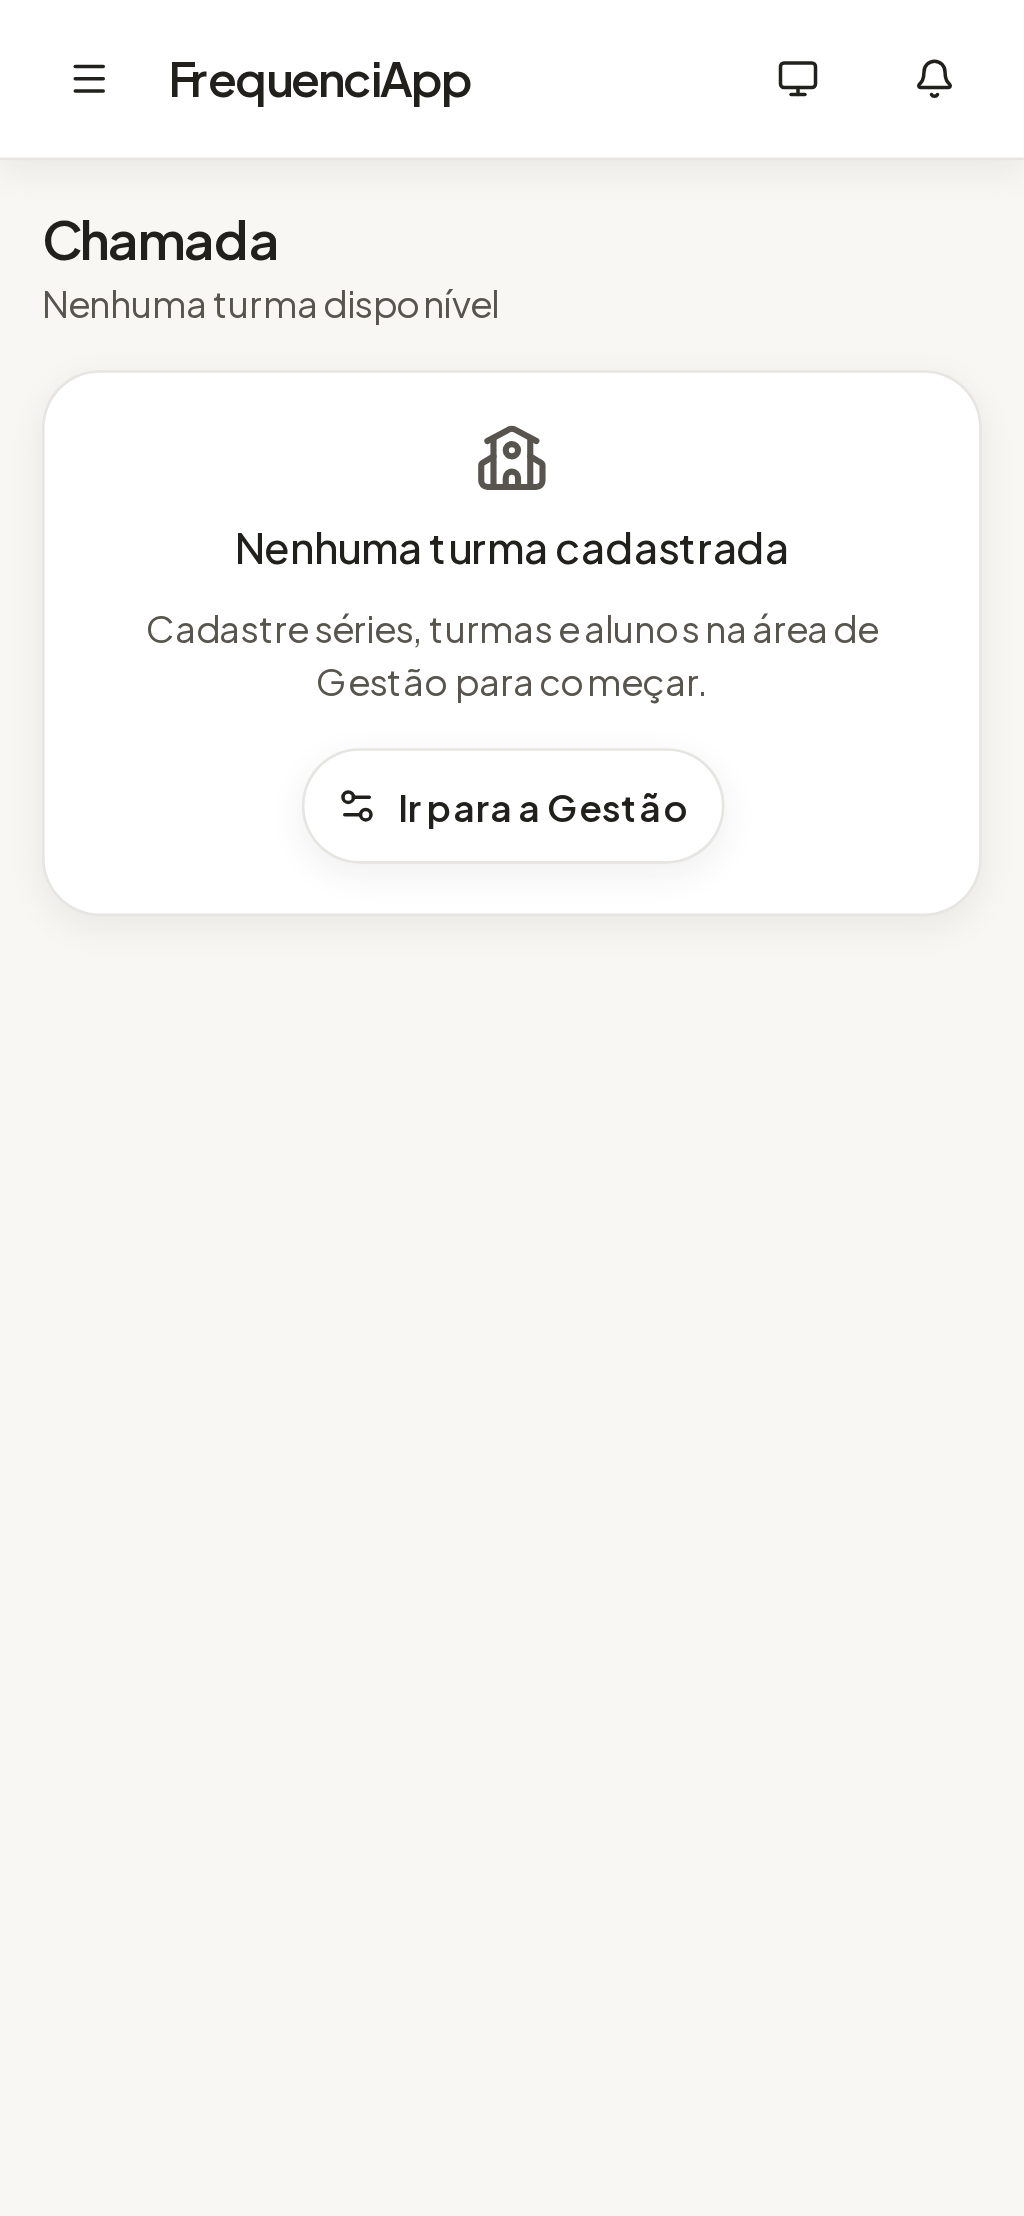
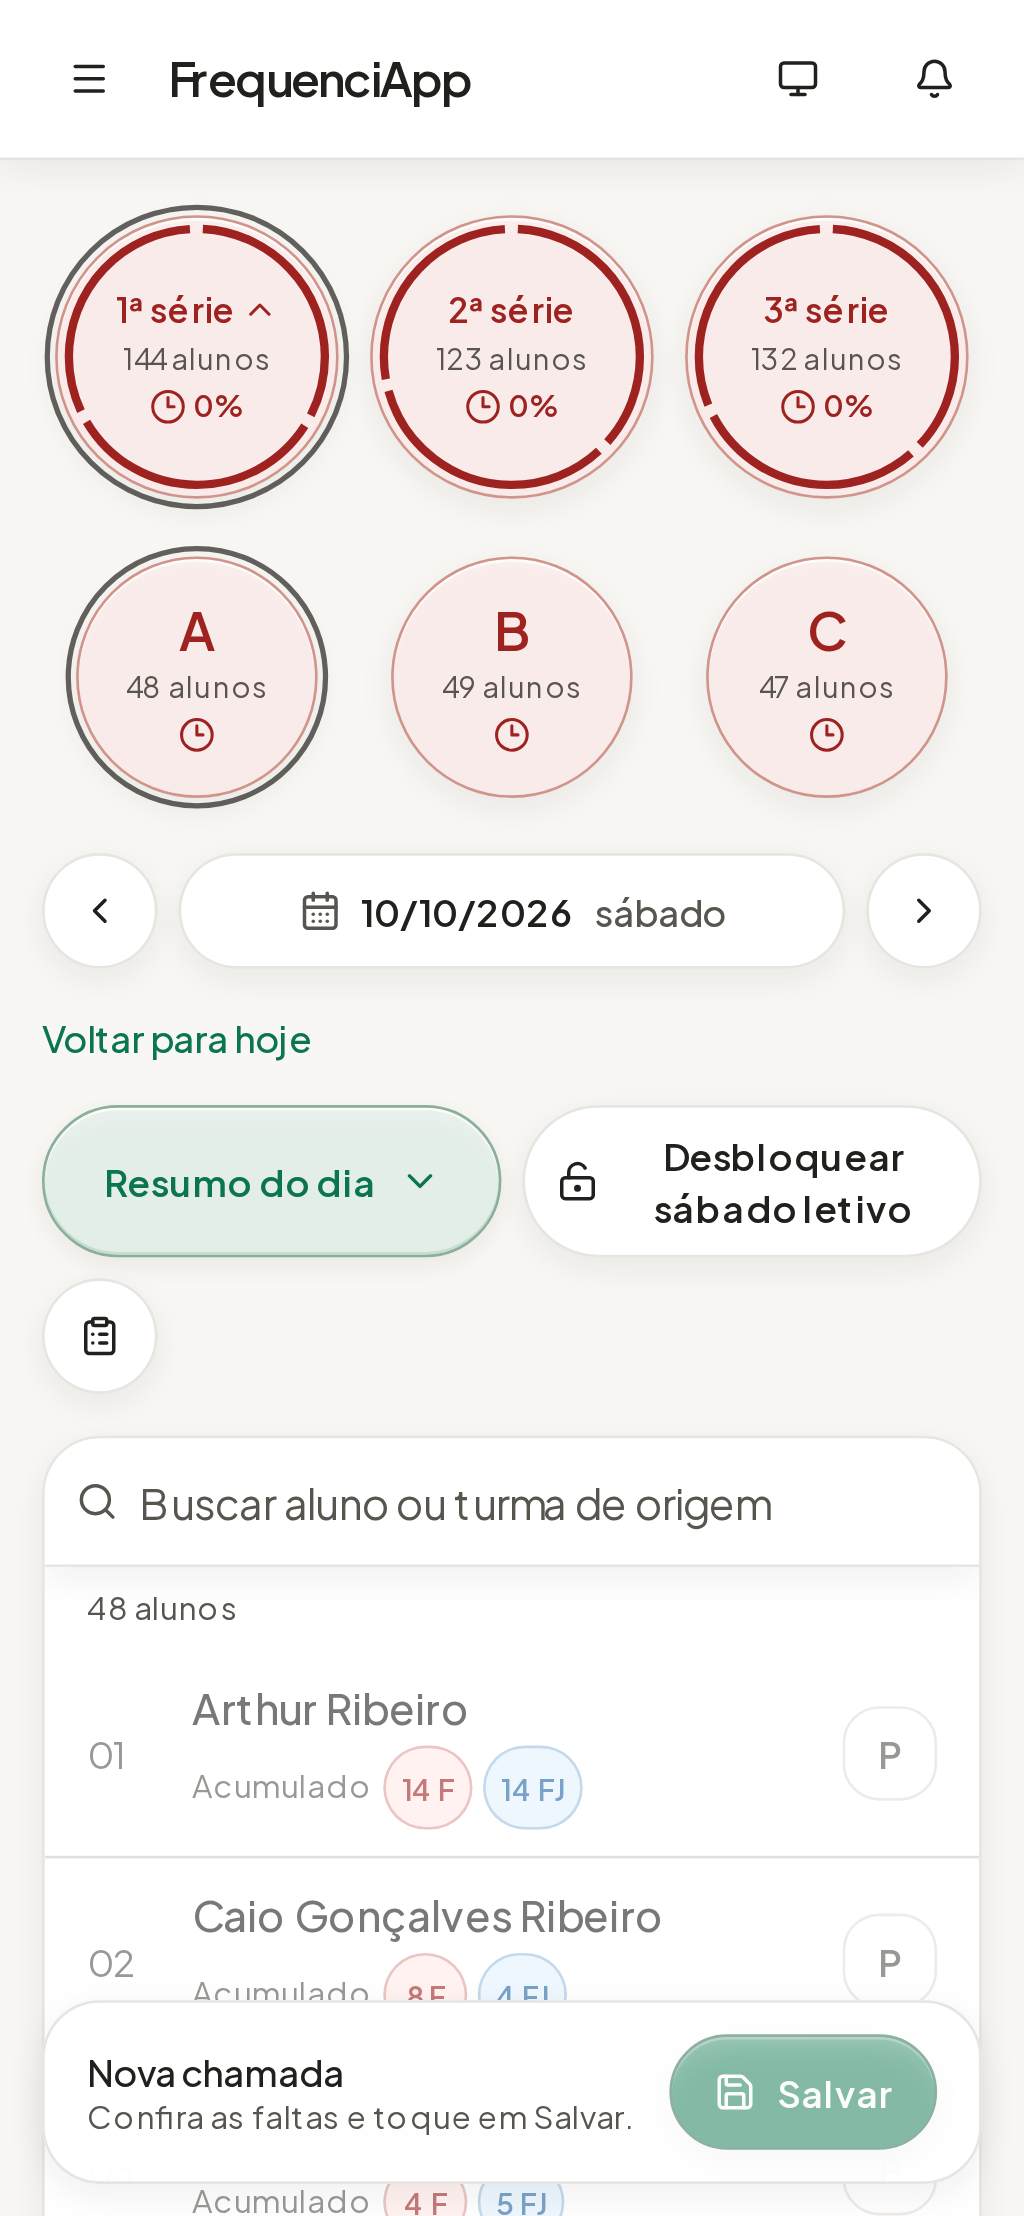
feat(capturas): gera as imagens do README com dados
Assisted-by: opencode:deepseek-v4.1-flash

diff --git a/tests/e2e/imagens.spec.ts b/tests/e2e/imagens.spec.ts
@@ -1,12 +1,57 @@
-// Capturas do README: gera as imagens de docs/imagens com massa sintética e sem dados reais.
+// Capturas do README: gera as imagens de docs/imagens com a semente aplicada e sem dados reais.
 import { mkdir } from "node:fs/promises";
 import path from "node:path";
-import { test } from "@playwright/test";
+import { test, type Page } from "@playwright/test";
 import { aguardarHidratacao, trocarVisao } from "./helpers/pagina";
+import { massaDeDemonstracaoPresente } from "./helpers/banco";
 
 const pastaImagens = path.resolve(process.cwd(), "docs/imagens");
 
+/** Abre o Painel em um dia letivo com chamada, voltando quando cai em feriado. */
+async function abrirPainelComDados(page: Page) {
+  const secao = page.locator('section[aria-label="Painel de frequência"]');
+  for (let tentativa = 0; tentativa < 8; tentativa += 1) {
+    const feriado = await secao.getByText(/^Feriado$/).count();
+    const semChamada = await secao.getByText("Nenhuma chamada salva neste dia").count();
+    if (feriado === 0 && semChamada === 0) return;
+    await secao.getByLabel("Dia anterior").click();
+    await page.waitForTimeout(400);
+  }
+  throw new Error("Sem dia letivo com chamada. Aplique a semente: pnpm run seed");
+}
+
+/** Abre a Chamada em um dia letivo com aulas, voltando quando cai em feriado. */
+async function abrirChamadaComDados(page: Page) {
+  const secao = page.locator('section[aria-label="Fazer chamada"]');
+  for (let tentativa = 0; tentativa < 8; tentativa += 1) {
+    const feriado = await secao.getByText(/^Feriado ·/).count();
+    const lista = await secao
+      .getByRole("searchbox", { name: "Buscar aluno ou turma de origem" })
+      .count();
+    if (lista > 0 && feriado === 0) {
+      // Chamada salva abre bloqueada: a captura mostra a correção liberada.
+      const desbloquear = secao.getByRole("button", { name: /^Desbloquear chamada de / });
+      if ((await desbloquear.count()) > 0) {
+        await desbloquear.click();
+        await page.waitForTimeout(300);
+      }
+      return;
+    }
+    await secao.getByLabel("Dia anterior").click();
+    await page.waitForTimeout(400);
+  }
+  throw new Error("Sem dia letivo com chamada. Aplique a semente: pnpm run seed");
+}
+
 test.describe("Capturas do README", () => {
+  test.beforeEach(async () => {
+    // A suíte comum roda com a base limpa; as capturas exigem a semente.
+    test.skip(
+      !(await massaDeDemonstracaoPresente()),
+      "Capturas exigem a semente aplicada: pnpm run seed",
+    );
+  });
+
   test("painel do dia no desktop, claro e escuro", async ({ page }, testInfo) => {
     test.skip(testInfo.project.name !== "chromium", "Capturas de desktop apenas no Chromium.");
     await mkdir(pastaImagens, { recursive: true });
@@ -15,6 +60,7 @@ test.describe("Capturas do README", () => {
     await aguardarHidratacao(page);
     await trocarVisao(page, "Painel", "painel");
     await page.waitForTimeout(800);
+    await abrirPainelComDados(page);
     await page.emulateMedia({ colorScheme: "light" });
     await page.screenshot({
       path: path.join(pastaImagens, "painel-desktop-claro.png"),
@@ -37,6 +83,7 @@ test.describe("Capturas do README", () => {
     await page.goto("/");
     await aguardarHidratacao(page);
     await trocarVisao(page, "Chamada", "chamada");
+    await abrirChamadaComDados(page);
     await page.waitForTimeout(800);
     await page.emulateMedia({ colorScheme: "light" });
     await page.screenshot({
@@ -46,6 +93,37 @@ test.describe("Capturas do README", () => {
     await page.emulateMedia({ colorScheme: "dark" });
     await page.screenshot({
       path: path.join(pastaImagens, "chamada-mobile-escuro.png"),
+      animations: "disabled",
+    });
+  });
+
+  test("relatórios, movimentações e gestão no desktop", async ({ page }, testInfo) => {
+    test.skip(testInfo.project.name !== "chromium", "Capturas de desktop apenas no Chromium.");
+    await mkdir(pastaImagens, { recursive: true });
+    await page.setViewportSize({ width: 1440, height: 900 });
+    await page.goto("/");
+    await aguardarHidratacao(page);
+
+    await trocarVisao(page, "Relatórios", "relatorios");
+    await page.getByRole("tab", { name: "Resumo" }).click();
+    await page.waitForTimeout(900);
+    await page.screenshot({
+      path: path.join(pastaImagens, "relatorios-resumo-desktop.png"),
+      animations: "disabled",
+    });
+
+    await trocarVisao(page, "Saídas e entradas", "saidas");
+    await page.waitForTimeout(900);
+    await page.screenshot({
+      path: path.join(pastaImagens, "saidas-entradas-desktop.png"),
+      animations: "disabled",
+    });
+
+    await trocarVisao(page, "Gestão", "gestao");
+    await page.getByRole("tab", { name: "Turmas" }).click();
+    await page.waitForTimeout(900);
+    await page.screenshot({
+      path: path.join(pastaImagens, "gestao-turmas-desktop.png"),
       animations: "disabled",
     });
   });

diff --git a/docs/testes.md b/docs/testes.md
@@ -116,12 +116,14 @@ O Resumo dos Relatórios verifica filtros, comparação entre séries e turmas, 
 
 ## Capturas do README
 
-As imagens do README são geradas por `tests/e2e/imagens.spec.ts` e gravadas em `docs/imagens/`, com o aplicativo no ar e a semente de desenvolvimento aplicada. O spec usa o estado de sessão criado pelo setup global, captura o Painel em 1440x900 no Chromium e a Chamada em 390x844 no mobile-chrome, nos temas claro e escuro, sem dados reais. Para regenerar:
+As imagens do README são geradas por `tests/e2e/imagens.spec.ts` e gravadas em `docs/imagens/`, com o aplicativo no ar e a semente de desenvolvimento aplicada. O spec usa o estado de sessão criado pelo setup global e captura o Painel em 1440x900 no Chromium (claro e escuro), a Chamada em 390x844 no mobile-chrome (claro e escuro) e, no desktop, o Resumo dos Relatórios, as Saídas e entradas e a aba Turmas da Gestão, sem dados reais. Aplique a semente antes de capturar; sem ela o spec falha com a orientação para rodar `pnpm run seed`. Para regenerar:
 
 ```bash
 pnpm run capturas:readme         # Playwright local, com o aplicativo no ar
 pnpm run capturas:readme:docker  # imagem oficial da Microsoft, com o aplicativo no ar
 ```
+
+Quando o dia corrente é feriado ou fim de semana, o spec volta ao último dia letivo com chamada para a captura sair com dados.
 
 Os PNGs versionados em `docs/imagens/` não são editados à mão. Quando a interface mudar, regenere as capturas e confira o diff das imagens no pull request.
 

diff --git a/CHANGELOG.md b/CHANGELOG.md
@@ -45,6 +45,10 @@ Enquanto a primeira versão pública não é lançada, a versão do projeto perm
 
 - Semente de demonstração ampliada para um ano letivo: nove turmas (1º ao 3º ano, A a C), 35 a 50 alunos por turma, grade de tempo integral com nove aulas, chamadas e faltas em cauda longa com crônicos, episódios e justificativas, saídas, entradas, frequências parciais, feriados e recessos do calendário e diretores de turma de exemplo. A semente é determinística, com perfis de volume (`SEED_PERFIL`), parâmetros (`SEED_ALUNOS`, `SEED_DIAS`, `SEED_ANO`, `SEED_SEMENTE`) e limpeza seletiva (`pnpm run seed:limpar`).
 
+- Capturas do README com dados: o Painel e a Chamada passam a exigir a semente aplicada e a mostrar o último dia letivo com chamada, e entram o Resumo dos Relatórios, as Saídas e entradas e a aba Turmas da Gestão.
+
+- Capturas do README com dados: o Painel e a Chamada passam a exigir a semente aplicada e a mostrar o último dia letivo com chamada, e entram o Resumo dos Relatórios, as Saídas e entradas e a aba Turmas da Gestão.
+
 ### Alterado
 
 - Consulta diária de Horários separa Manhã e Tarde em botões, com intervalo de almoço das 11:50 às 13:00. A edição bloqueia a troca de turno sem desativar o formulário; aulas cadastradas no intervalo continuam acessíveis e a semana completa permanece disponível.
